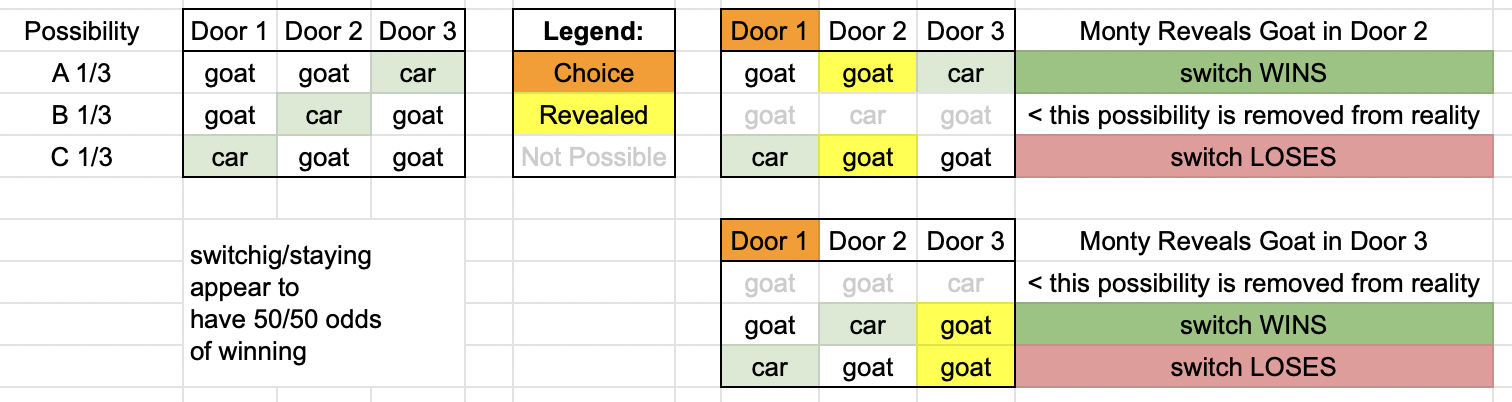
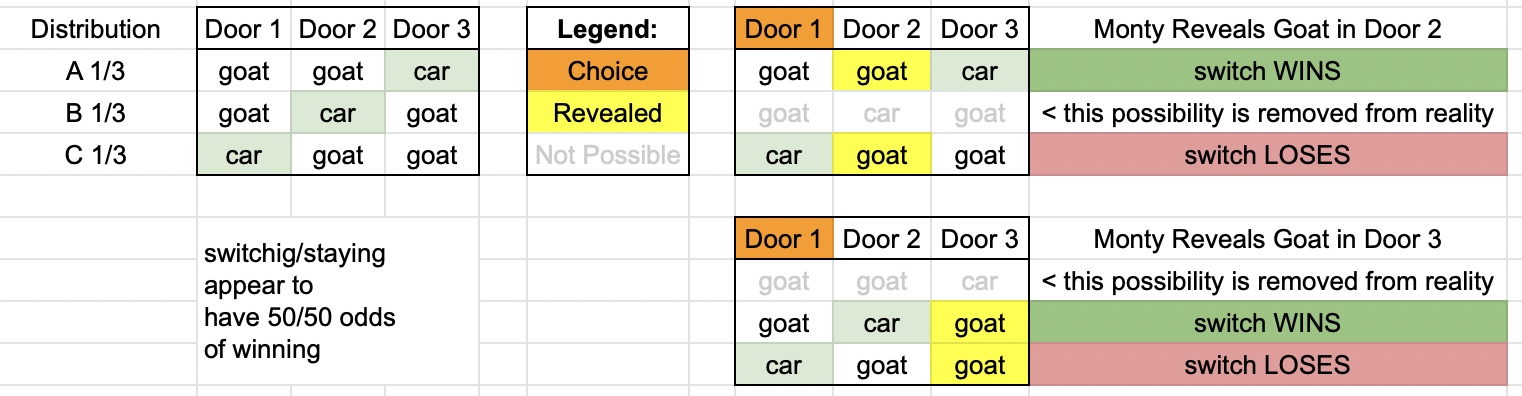
is probabilistic distribution reality?

diff --git a/README.md b/README.md
@@ -8,11 +8,11 @@ In talking this over the last couple of days I found myself in a position of sim
 
 ![Faulty but intuitive view](faulty.png)
 
-In the above, there are 3 possible distributions, which manifest as 3 potential starting realities. When Monty reveals a goat, it collapses reality into 1 of 4 possibilities, which simplify into 50/50 odds--this is a sort of quantum entanglement view of reality--but does reality at the macro level behave as it does in the quantum world? 
-- If we see that a goat is behind `Door 2`, then `Reality B` is no longer possible (`Door 2` cannot have been allocated a car in the initial random placement).
+In the above, there are 3 possible distributions. When Monty reveals a goat, it collapses reality into 1 of 4 possibilities, which simplify into 50/50 odds--this is a sort of quantum entanglement view of reality--but does reality at the macro level behave as it does in the quantum world? 
+- If we see that a goat is behind `Door 2`, then `Distribution B` is no longer possible (`Door 2` cannot have been allocated a car in the initial random placement).
     - If you were in distribution A, switching wins
     - If you were in distribution C, switching loses
-- If we see that a goat is behind `Door 3`, then `Reality A` is no longer possible (`Door 3` cannot have been allocated a car in the initial random placement)
+- If we see that a goat is behind `Door 3`, then `Distribution A` is no longer possible (`Door 3` cannot have been allocated a car in the initial random placement)
     - If you were in distribution B, switching wins
     - If you were in distribution C, switching loses
 It seems we have a 50/50 chance of winning whether we choose to stay with `Door 1`, or choose to switch to the other door.
